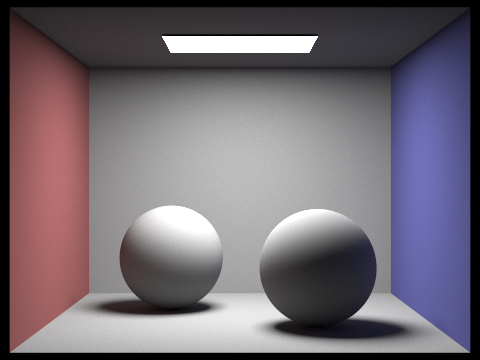
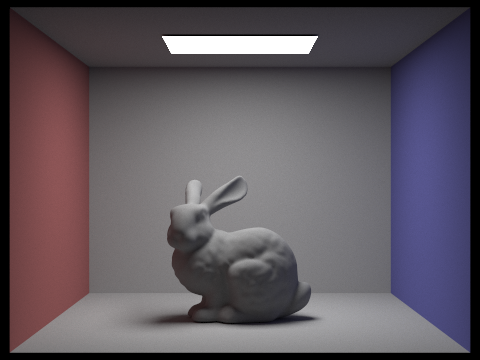
5

diff --git a/hw3/index.html b/hw3/index.html
@@ -330,11 +330,11 @@
 			  <tr>
 				<td style="text-align: center;">
 				  <img src="5.1.png" width="400px"/>
-				  <figcaption>Spheres</figcaption>
+				  <figcaption>Bunny</figcaption>
 				</td>
 				<td style="text-align: center;">
 				  <img src="5.2.png" width="400px"/>
-				  <figcaption>Spheres: Adaptive Sampling Rate Map</figcaption>
+				  <figcaption>Bunny: Adaptive Sampling Rate Map</figcaption>
 				</td>
 			  </tr>
 			  <tr>
